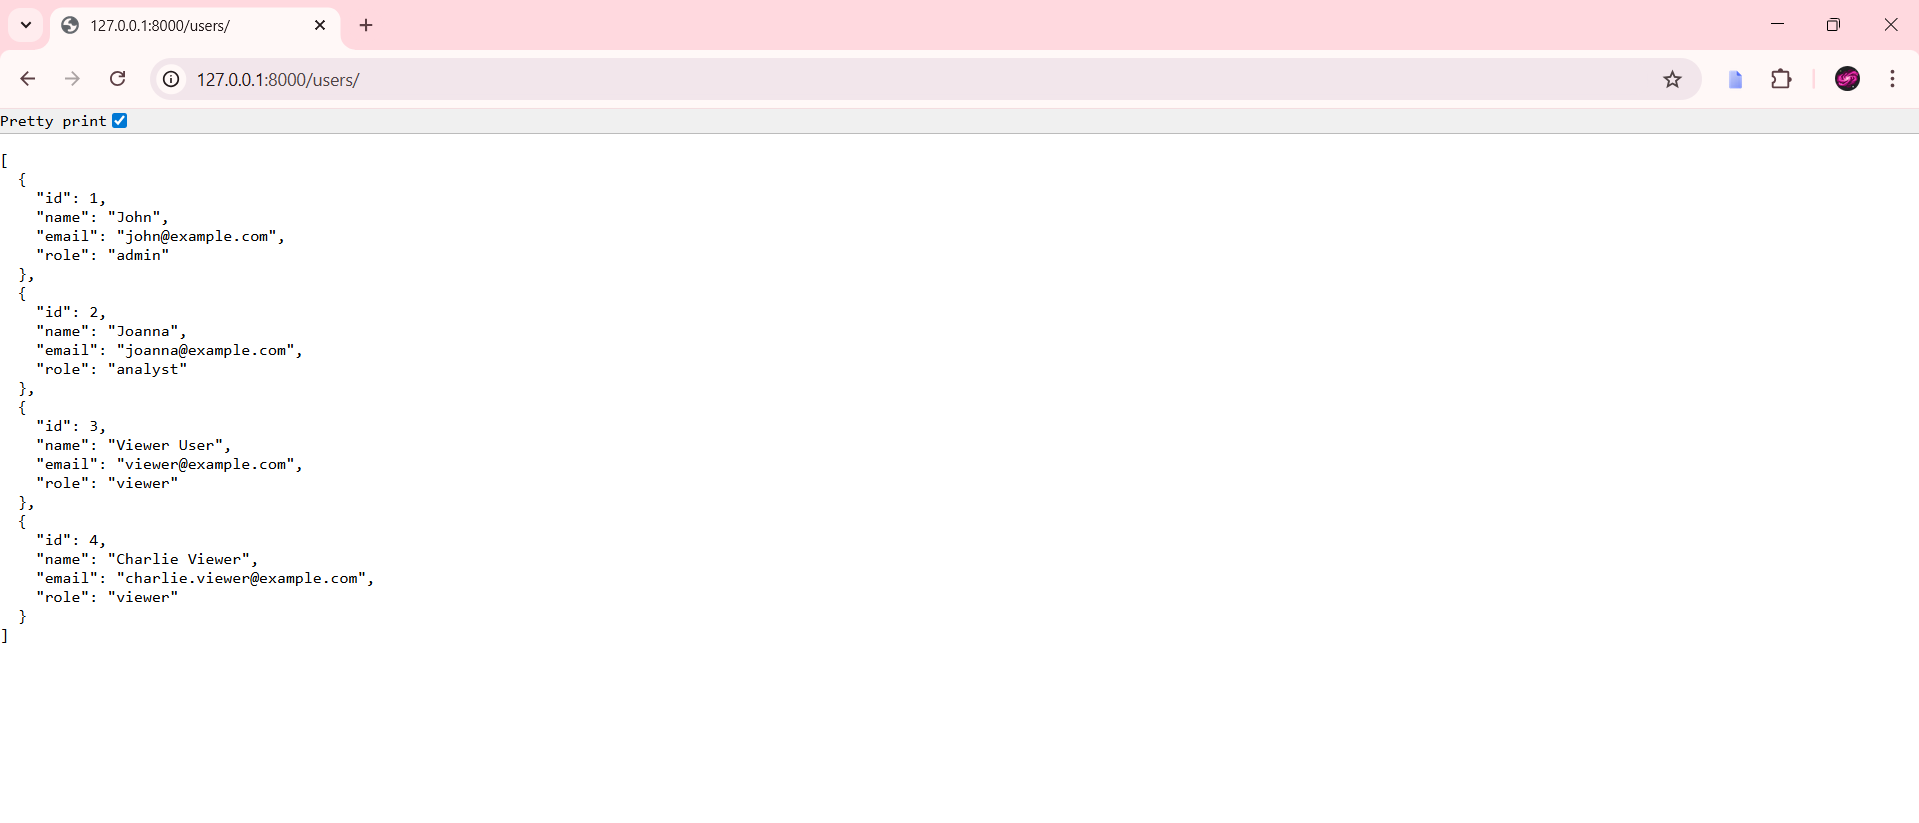
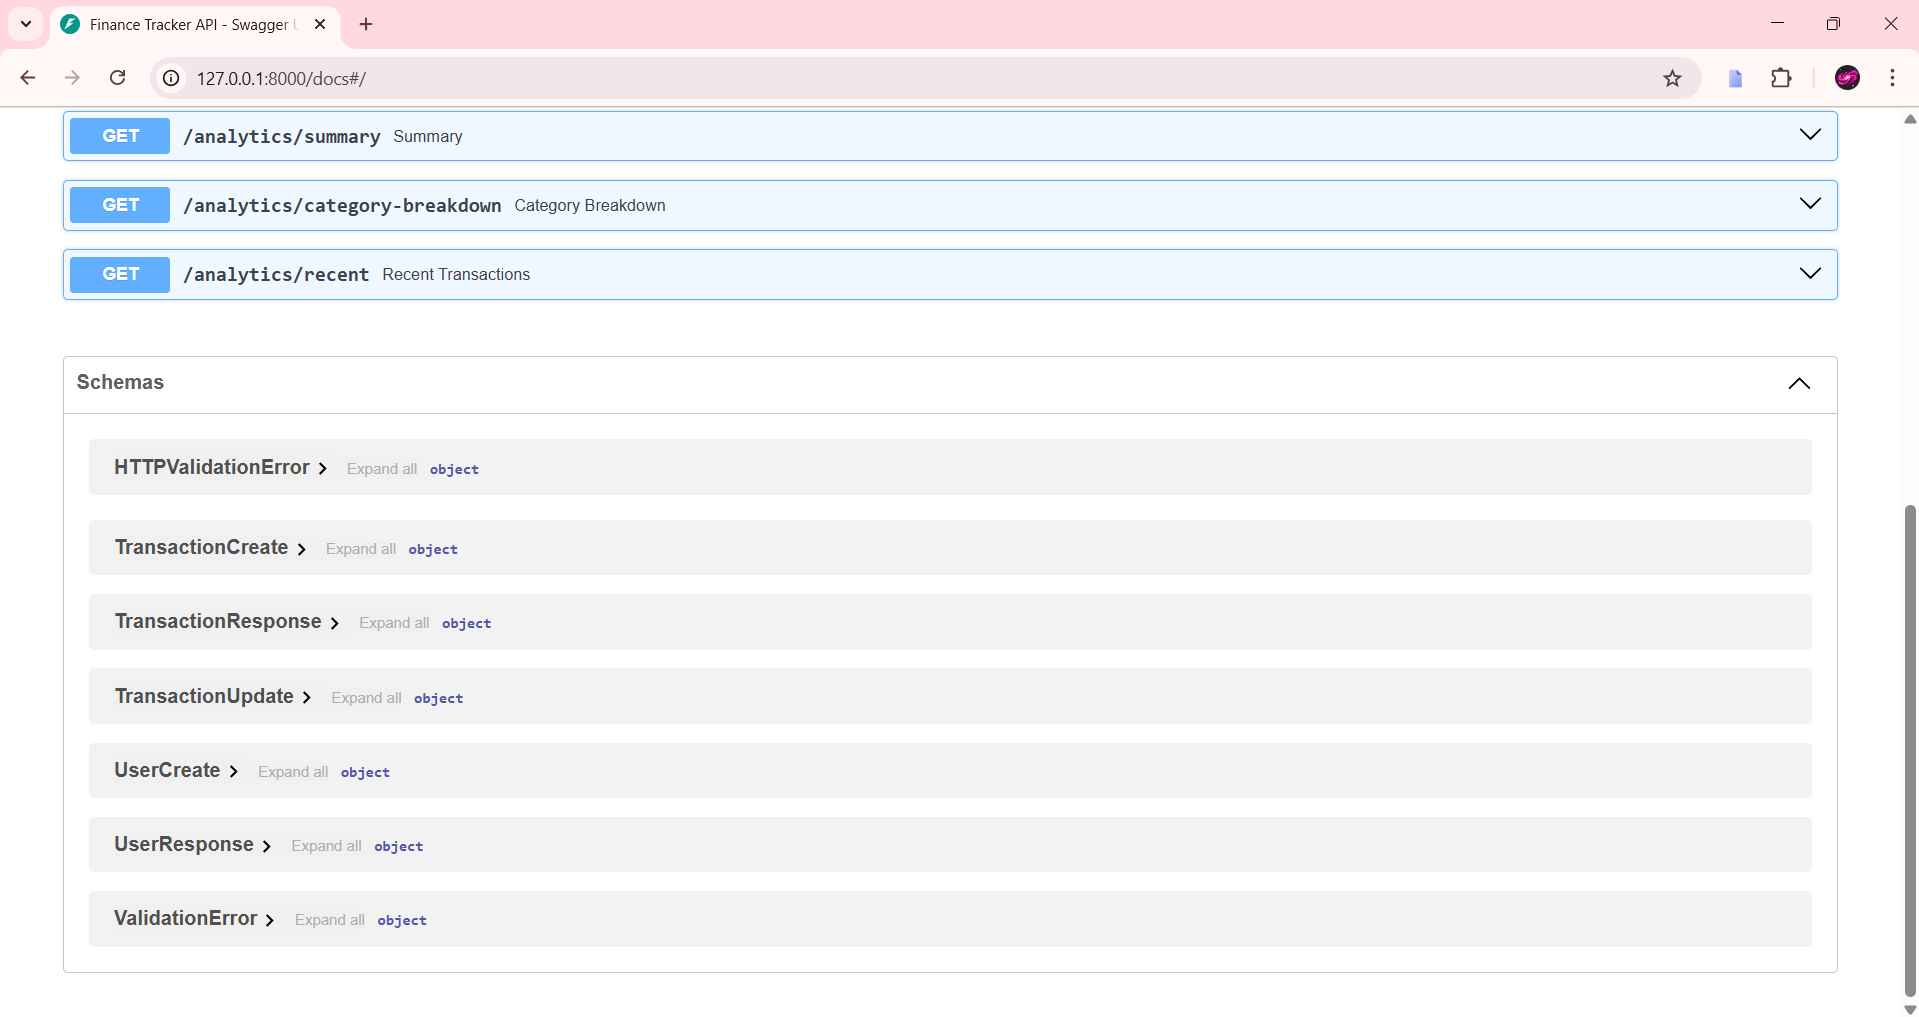
commit

diff --git a/app/routes/transactions.py b/app/routes/transactions.py
@@ -14,11 +14,11 @@ from app.utils.role_checker import (
 router = APIRouter(prefix="/transactions", tags=["Transactions"])
 
 
-# CREATE → Admin + Analyst
+# ================= CREATE =================
 @router.post("/", response_model=schemas.TransactionResponse)
 def create_transaction(
     txn: schemas.TransactionCreate,
-    user_id: int,
+    user_id: int = Query(..., description="User ID for the transaction"),
     role: str = Depends(get_role),
     db: Session = Depends(get_db)
 ):
@@ -30,11 +30,11 @@ def create_transaction(
     return crud.create_transaction(db, txn, user_id)
 
 
-# GET (FILTERING) → All roles
+# ================= GET (FILTERED) =================
 @router.get("/", response_model=list[schemas.TransactionResponse])
 def get_transactions(
-    type: str | None = Query(None),
-    category: str | None = Query(None),
+    type: str | None = Query(None, description="Transaction type (income/expense)"),
+    category: str | None = Query(None, description="Transaction category"),
     start_date: date | None = Query(None),
     end_date: date | None = Query(None),
     role: str = Depends(get_role),
@@ -45,12 +45,13 @@ def get_transactions(
     - type
     - category
     - date range
+    Accessible by all roles.
     """
     require_any_role(role)
     return crud.get_transactions(db, type, category, start_date, end_date)
 
 
-# UPDATE → Admin only
+# ================= UPDATE =================
 @router.put("/{txn_id}", response_model=schemas.TransactionResponse)
 def update_transaction(
     txn_id: int,
@@ -71,7 +72,7 @@ def update_transaction(
     return updated
 
 
-# DELETE → Admin only
+# ================= DELETE =================
 @router.delete("/{txn_id}")
 def delete_transaction(
     txn_id: int,

diff --git a/app/crud.py b/app/crud.py
@@ -5,6 +5,7 @@ from app import models
 # ================= USERS =================
 
 def create_user(db: Session, user):
+    """Create a new user"""
     db_user = models.User(**user.dict())
     db.add(db_user)
     db.commit()
@@ -13,12 +14,14 @@ def create_user(db: Session, user):
 
 
 def get_users(db: Session):
+    """Get all users"""
     return db.query(models.User).all()
 
 
 # ================= TRANSACTIONS =================
 
 def create_transaction(db: Session, transaction, user_id: int):
+    """Create a transaction linked to a user"""
     db_txn = models.Transaction(**transaction.dict(), user_id=user_id)
     db.add(db_txn)
     db.commit()
@@ -27,6 +30,7 @@ def create_transaction(db: Session, transaction, user_id: int):
 
 
 def get_transactions(db: Session, type=None, category=None, start_date=None, end_date=None):
+    """Fetch transactions with optional filters"""
     query = db.query(models.Transaction)
 
     if type:
@@ -42,6 +46,7 @@ def get_transactions(db: Session, type=None, category=None, start_date=None, end
 
 
 def update_transaction(db: Session, txn_id: int, txn_data):
+    """Update a transaction"""
     txn = db.query(models.Transaction).filter(models.Transaction.id == txn_id).first()
 
     if not txn:
@@ -56,6 +61,7 @@ def update_transaction(db: Session, txn_id: int, txn_data):
 
 
 def delete_transaction(db: Session, txn_id: int):
+    """Delete a transaction"""
     txn = db.query(models.Transaction).filter(models.Transaction.id == txn_id).first()
 
     if not txn:

diff --git a/app/utils/role_checker.py b/app/utils/role_checker.py
@@ -1,23 +1,37 @@
 from fastapi import Header, HTTPException
 
-# Extract role from request header
-def get_role(x_role: str = Header(...)):
+def get_role(x_role: str | None = Header(default=None, alias="X-Role")):
+    """
+    Extract user role from X-Role header.
+    If not provided, default to 'viewer' for browser access.
+    """
+    if not x_role:
+        return "viewer"
     return x_role.lower()
 
 
 # Only admin allowed
 def require_admin(role: str):
+    """
+    Allow access only to admin users.
+    """
     if role != "admin":
         raise HTTPException(status_code=403, detail="Admin access required")
 
 
 # Admin + Analyst allowed
 def require_analyst_or_admin(role: str):
+    """
+    Allow access to admin and analyst roles.
+    """
     if role not in ["admin", "analyst"]:
         raise HTTPException(status_code=403, detail="Access denied")
 
 
 # Viewer, Analyst, Admin allowed (for read-only)
 def require_any_role(role: str):
+    """
+    Allow access to all valid roles.
+    """
     if role not in ["admin", "analyst", "viewer"]:
         raise HTTPException(status_code=403, detail="Invalid role")
